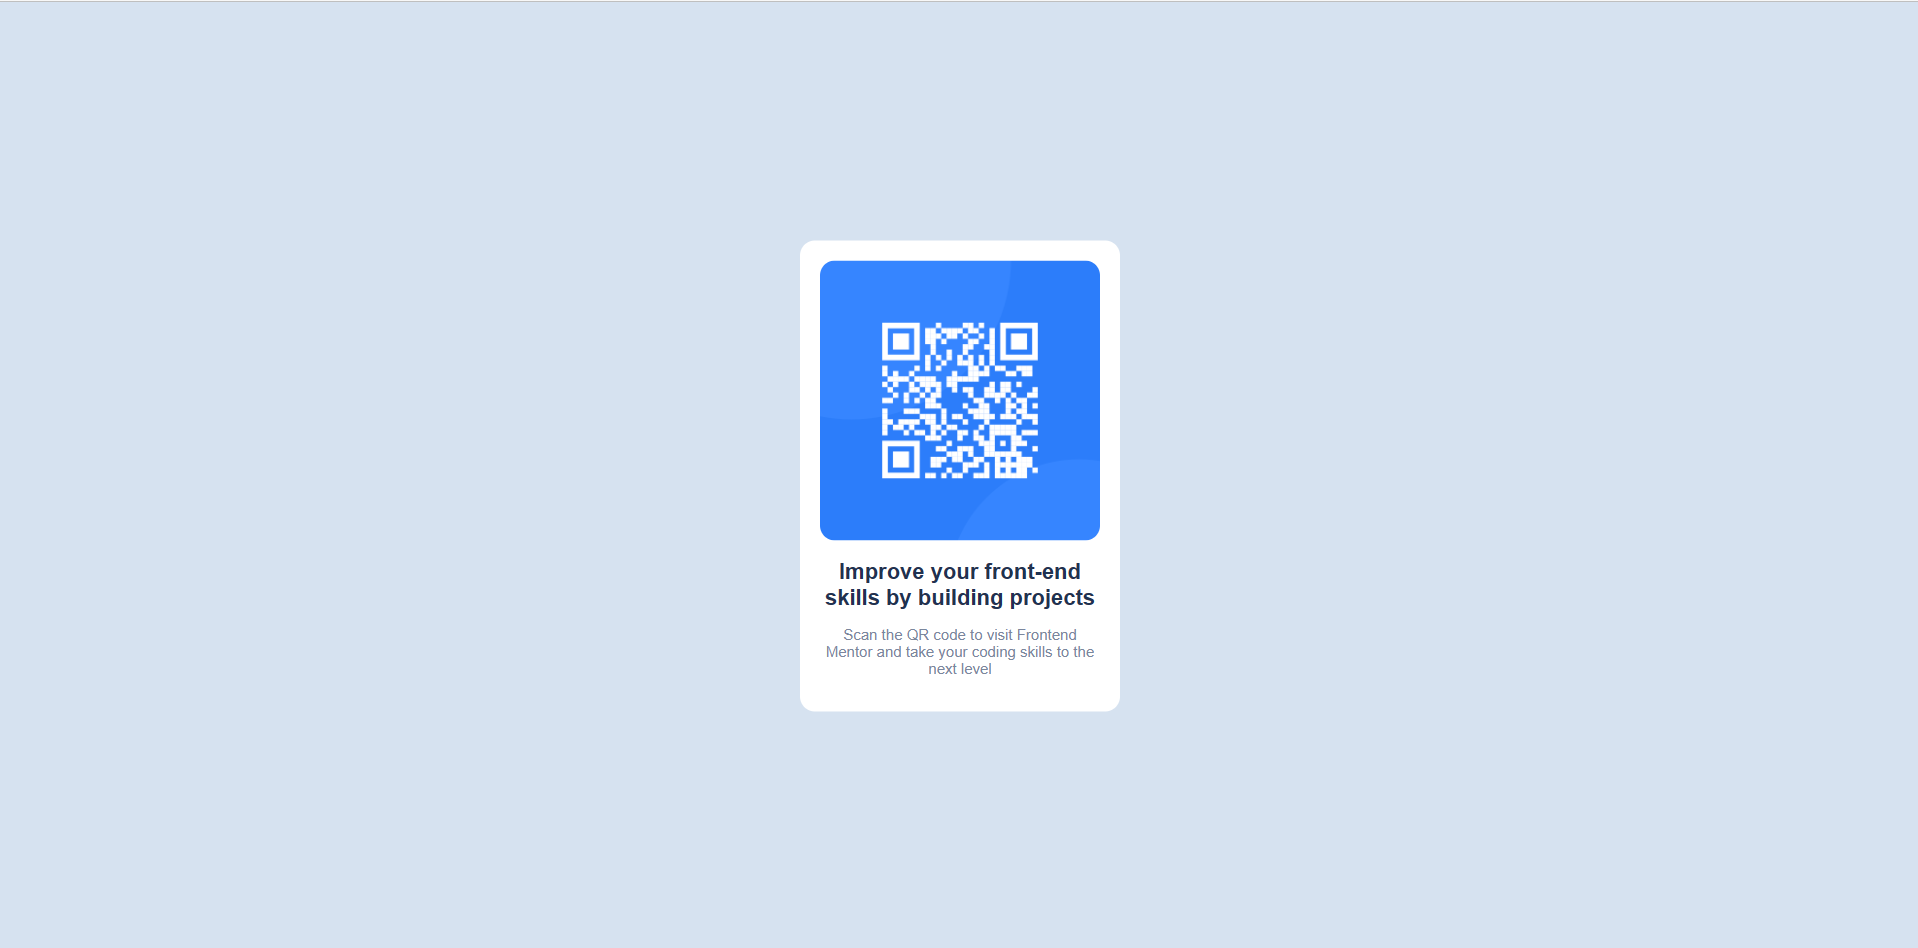
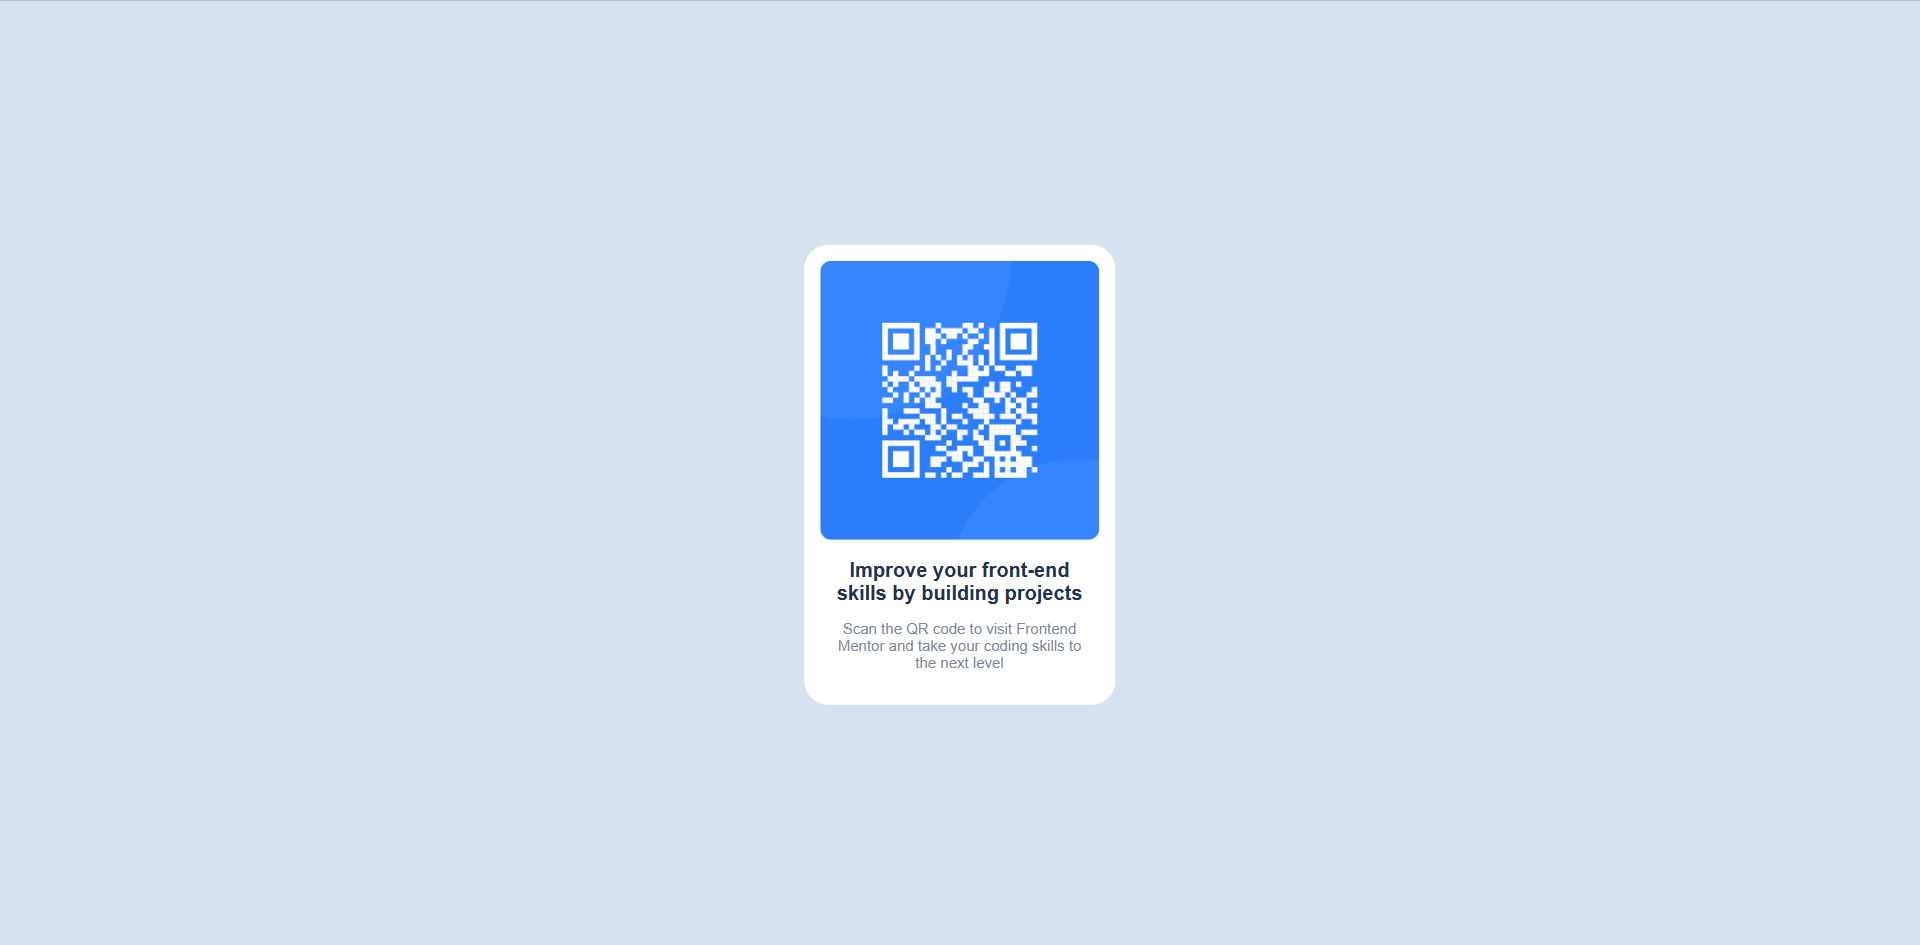
updates from comments

Changed region(s): [[0.3999, 0.2455, 0.5845, 0.7672]]

diff --git a/index.css b/index.css
@@ -10,12 +10,19 @@
     --dark-blue: hsl(218, 44%, 22%);
 
     /*font*/
-    --font-size-paragraph: 15px;
+    --font-size-paragraph: 0.9375rem;
+    --font-size-h1: 1.25rem;
     --font-family: 'Outfit', sans-serif;
     --font-weight-small: 400;
     --font-weight-big: 700;
 
-    --border-radius: 15px;
+    /*border radius*/
+    --border-radius-img: 0.7rem;
+    --border-radius-container: 1.5rem;
+
+    /*random*/
+    --padding-container: 1rem;
+    --margin-text-item: 0.9375rem;
 }
 *{
     /*Boilerplate styles*/
@@ -23,39 +30,39 @@
     padding: 0;
     box-sizing: border-box;
 
-    font-size: var(--font-size-paragraph);
-    text-align: center;
     font-family: var(--font-family);
+    text-align: center;
 }
 body{
     background-color: var(--light-gray);
 }
 .mainContainer{
     background-color: var(--white);
-    border-radius: var(--border-radius);
-    padding: 20px;
-    width: 320px;
+    border-radius: var(--border-radius-container);
+    padding: 1rem;
+    width: 35ch;
 
     position: fixed;
     top: 50%;
     left: 50%;
     transform: translate(-50%,-50%);
 }
+.textItem{
+    margin: var(--margin-text-item) var(--margin-text-item) 0 var(--margin-text-item);
+}
 .qrCodeImg{
-    width: 280px;
-    border-radius: var(--border-radius)
+    max-width: 100%;
+    border-radius: var(--border-radius-img);
 }
 .boldText{
-    font-weight: var(--font-weight-big);
-    font-size: 22px;
     color: var(--dark-blue);
-
-    margin: 15px 0px;
+    font-size: var(--font-size-h1);
+    font-weight: var(--font-weight-big);
 }
 .lightText{
     color: var(--grayish-blue);
-    font-weight: var(--font-weight-small);
     font-size: var(--font-size-paragraph);
-
-    margin: 15px 0px;
+    font-weight: var(--font-weight-small);
+    
+    margin-bottom: 1.125rem;
 }

diff --git a/index.html b/index.html
@@ -11,11 +11,11 @@
 </head>
 <body>
     <main class="mainContainer">
-      <img src="./images/image-qr-code.png" alt="Image of a qr code" class="qrCodeImg">
-      <p class="boldText" aria-label="Bold text">
+      <img src="./images/image-qr-code.png" alt="QR code to frontendmentor.io" class="qrCodeImg">
+      <h1 class="textItem boldText">
         Improve your front-end skills by building projects
-      </p>
-      <p class="lightText" aria-label="Light text">
+      </h1>
+      <p class="textItem lightText">
         Scan the QR code to visit Frontend Mentor and take your coding skills to the next level
       </p>
     </main>

diff --git a/README.md b/README.md
@@ -36,14 +36,18 @@ This is a solution to the [QR code component challenge on Frontend Mentor](https
 - Mobile-first workflow
 - Always using alts on images and using aria attributes where i can.
 - Using comments for readability
+- Using apropriate font-size, padding, width, padding/margin and border-radius units.
 
 ### What I learned
 
-Ive never used transform before so i definitely have learnt about some of its uses.
+Ive never used transform before so i definitely have learnt about some of its uses. Will use flexbox in the future though
 
 ### Continued development
 
 Always mobile first!
+Use flexbox.
+Stick to using custom css properties
+Stick to using the apropriate css units for sizing.
 
 ## Author
 
